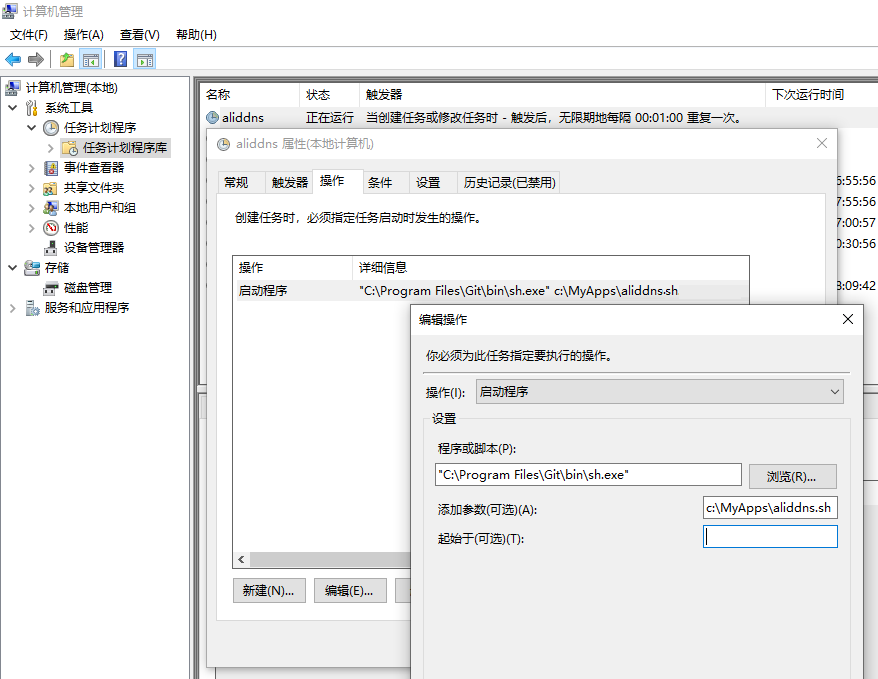
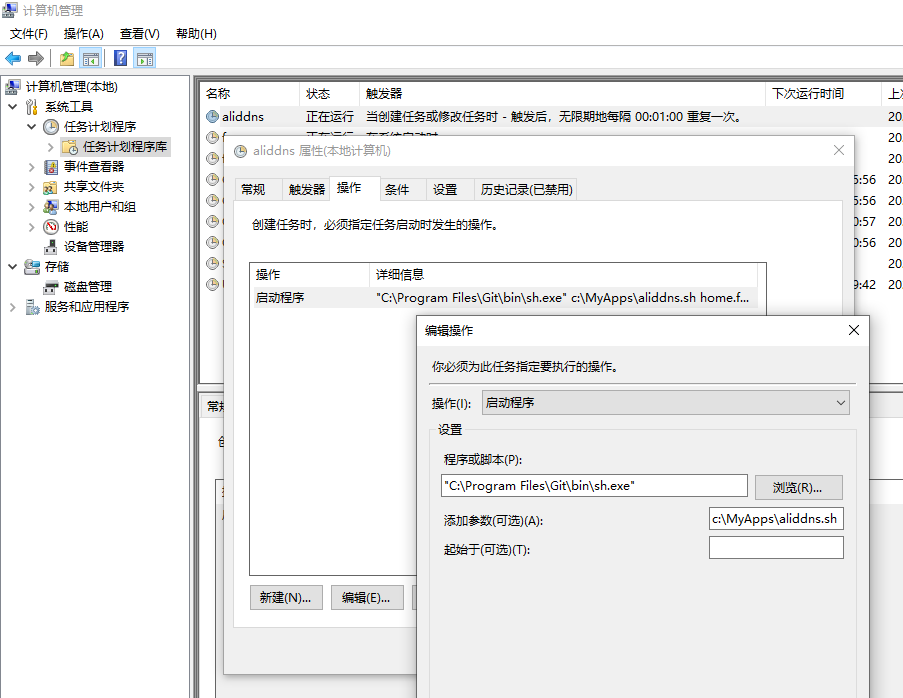
update readme

Changed region(s): [[0.0, 0.0, 1.0, 1.0], [0.8303, 0.3711, 0.861, 0.4021]]

diff --git a/README.md b/README.md
@@ -79,12 +79,12 @@ Windows环境要运行sh脚本文件，需要一些sh的模拟环境，开发人
 
 如果需要在`cmd`下运行sh文件，可以在`cmd`下执行`"C:\Program Files\Git\bin\sh.exe" c:\MyApps\aliddns.sh home.mydomain.com`。
 
-我用该脚本更多是为了更精确的跟踪我的路由器的ip变化，Windows环境我更倾向于使用系统自带的`任务管理`，这里面直接设置一个定时任务（譬如1分钟一次），并使用system的身份去调度，则可以有效修改Windows的hosts文件。以Windows 10为例，方法如下：
+我用该脚本更多是为了更精确的跟踪我的路由器的ip变化。Windows环境我更倾向于使用系统自带的`任务管理`，可以直接添加一个定时任务（譬如1分钟一次），并使用system的身份去调度，则可以有效修改Windows的hosts文件。以Windows 10为例，方法如下：
 
 1. 鼠标右键单击开始菜单，选择`计算机管理`，依次点开`任务计划程序`->`任务计划程序库`，创建任务；
-2. 在弹出的创建任务窗口，常规选项卡里，将用户账户改为SYSTEM;
-3. 在触发器选项卡里，添加一个新建/修改任务时，时间间隔设置为1分钟或者其它你希望的时间；
-4. 在操作选项卡里，添加应用程序`"C:\Program Files\Git\bin\sh.exe"`，参数为`c:\MyApps\aliddns.sh home.mydomain.com C:\Windows\System32\drivers\etc\hosts`；
+2. 在弹出的`创建任务`窗口，`常规`选项卡里，将用户账户改为`SYSTEM`;
+3. 在`触发器`选项卡里，添加一个新建/修改任务时，时间间隔设置为1分钟或者其它你希望的时间；
+4. 在`操作`选项卡里，添加应用程序`"C:\Program Files\Git\bin\sh.exe"`，参数为`c:\MyApps\aliddns.sh home.mydomain.com C:\Windows\System32\drivers\etc\hosts`；
 5. 其它选项根据自己的需要设定，或者保持默认即可；
 6. 确定保存后顺利的话就可以看到该任务1分钟会刷新一次了。
 
